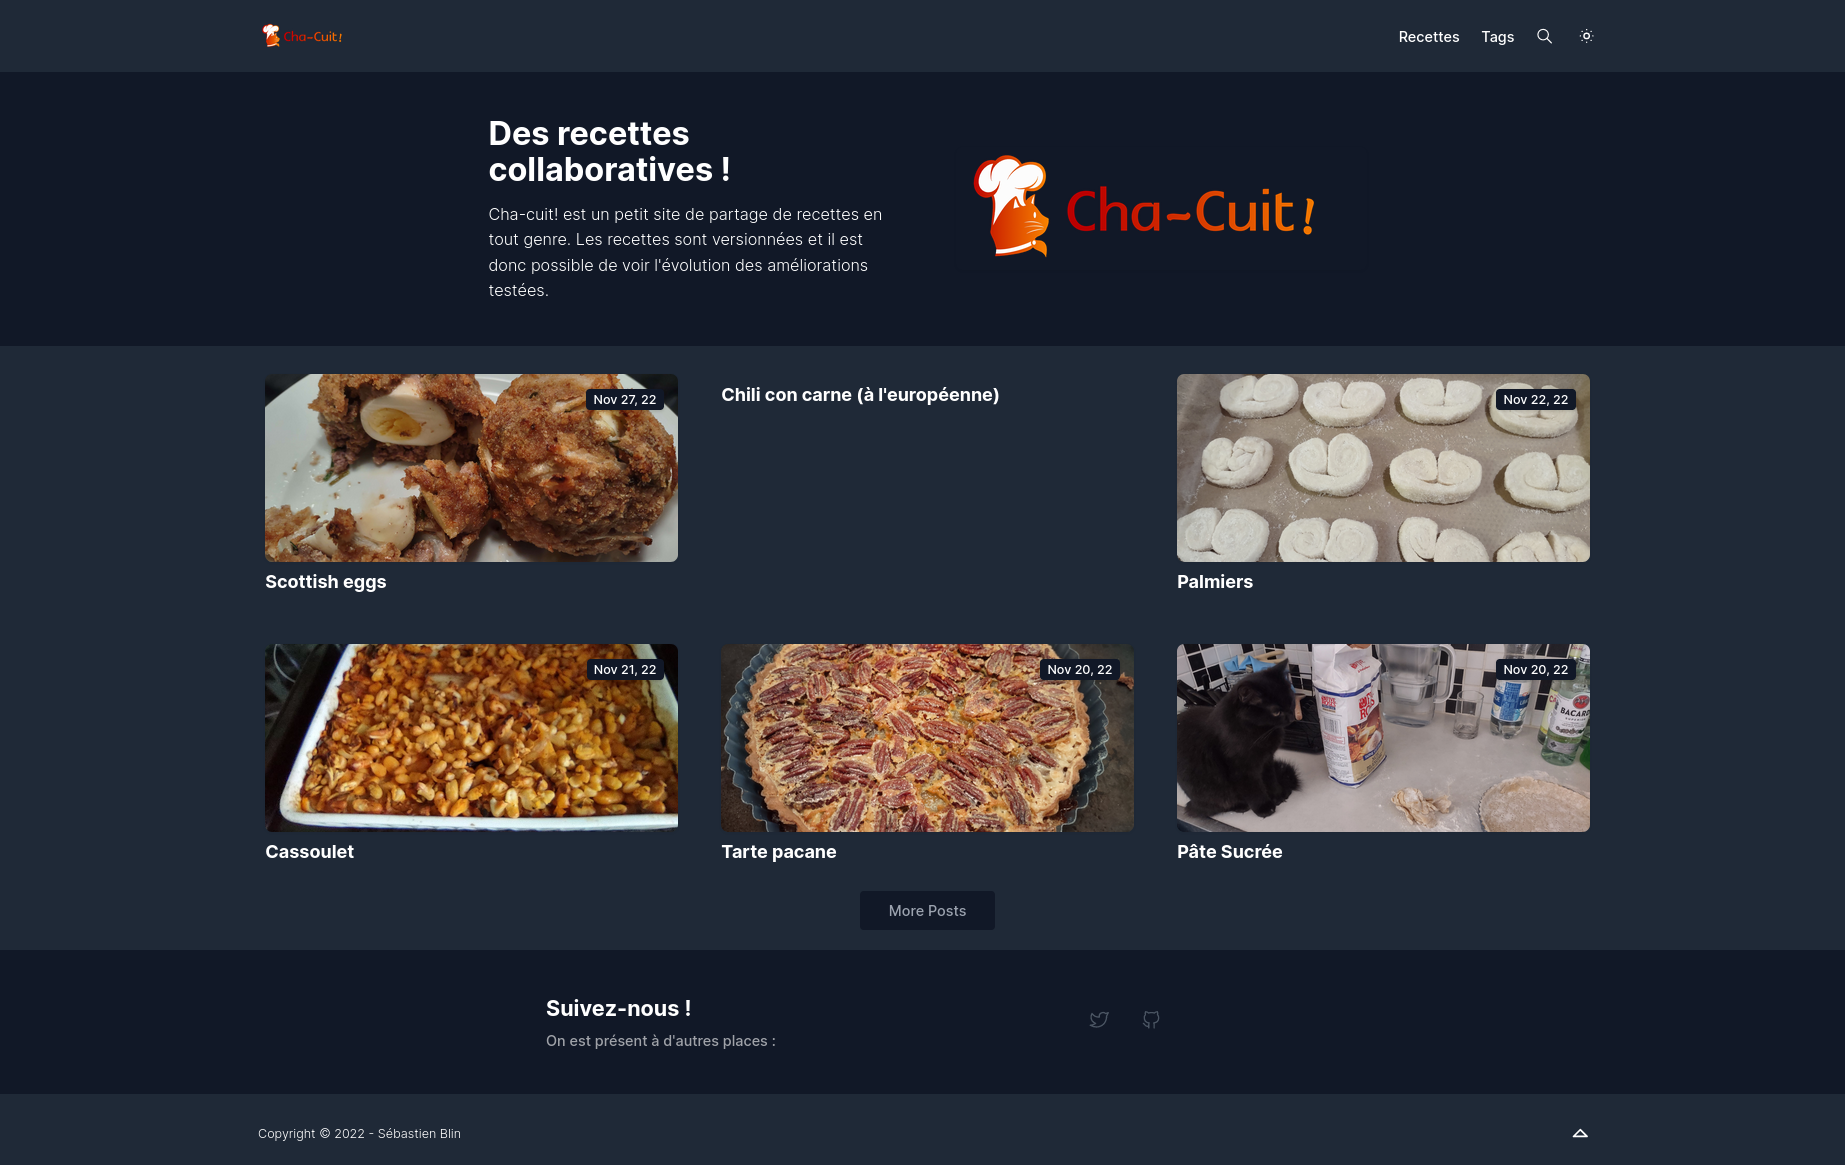
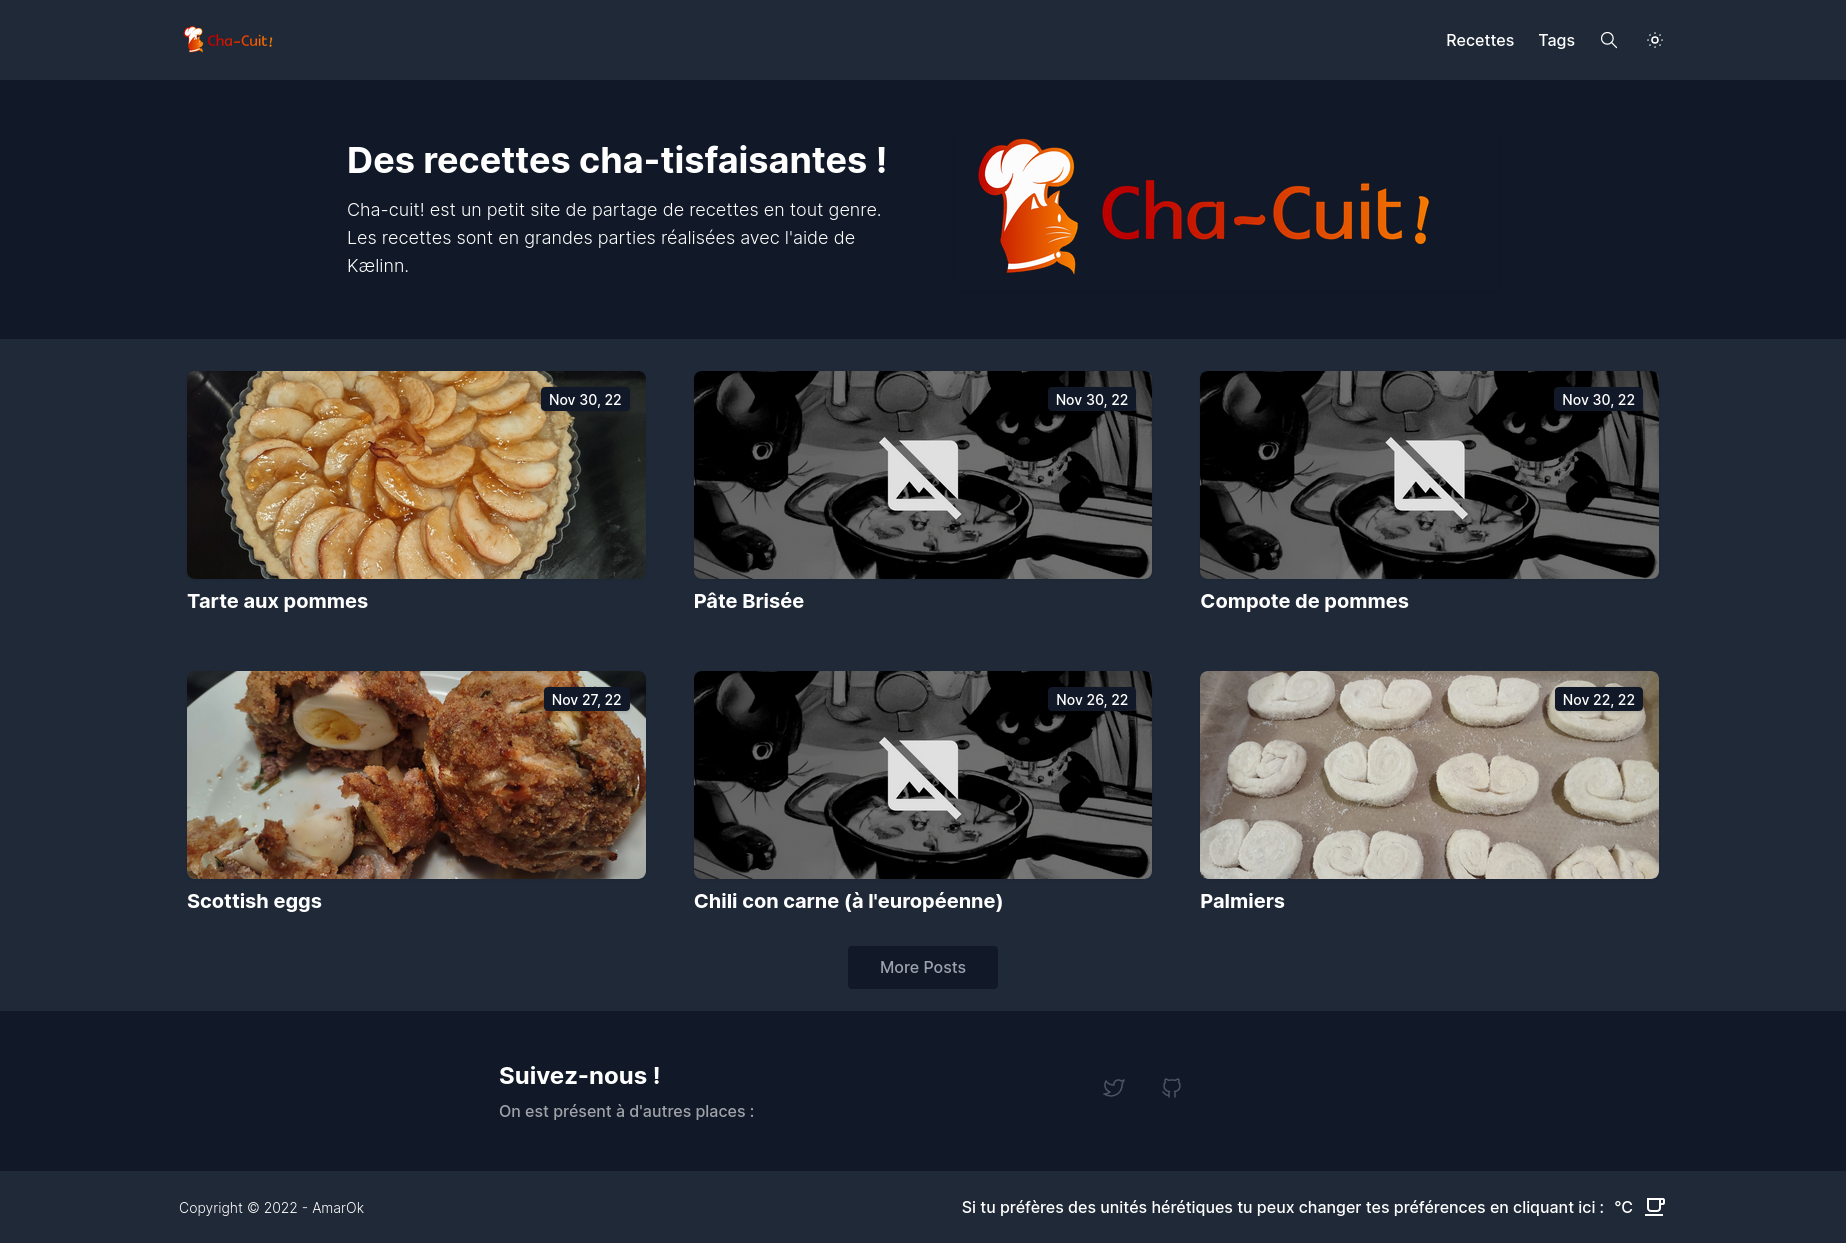
ui: fix footer
Issue: #2

diff --git a/layouts/partials/footer.html b/layouts/partials/footer.html
@@ -7,16 +7,9 @@
     {{ end }}
   </span>
   <div style="display:flex; align-items: center; gap: 10px;">
+    Si tu préfères des unités hérétiques tu peux changer tes préférences en cliquant ici :
     <span class="degrees-icon" onclick="toggleDegree()"></span>
-    <span class="cups-icon" onclick="toggleCups()">
-    </span>
-    <span onclick="window.scrollTo({top: 0, behavior: 'smooth'})" class="p-1 cursor-pointer">
-      <svg xmlns="http://www.w3.org/2000/svg" width="30" height="30" viewBox="0 0 24 24" stroke-width="1.5"
-        stroke="currentColor" fill="none" stroke-linecap="round" stroke-linejoin="round">
-        <path stroke="none" d="M0 0h24v24H0z" fill="none" />
-        <path d="M18 15l-6 -6l-6 6h12" />
-      </svg>
-    </span>
+    <span class="cups-icon" onclick="toggleCups()"></span>
   </div>
 </footer>
 
